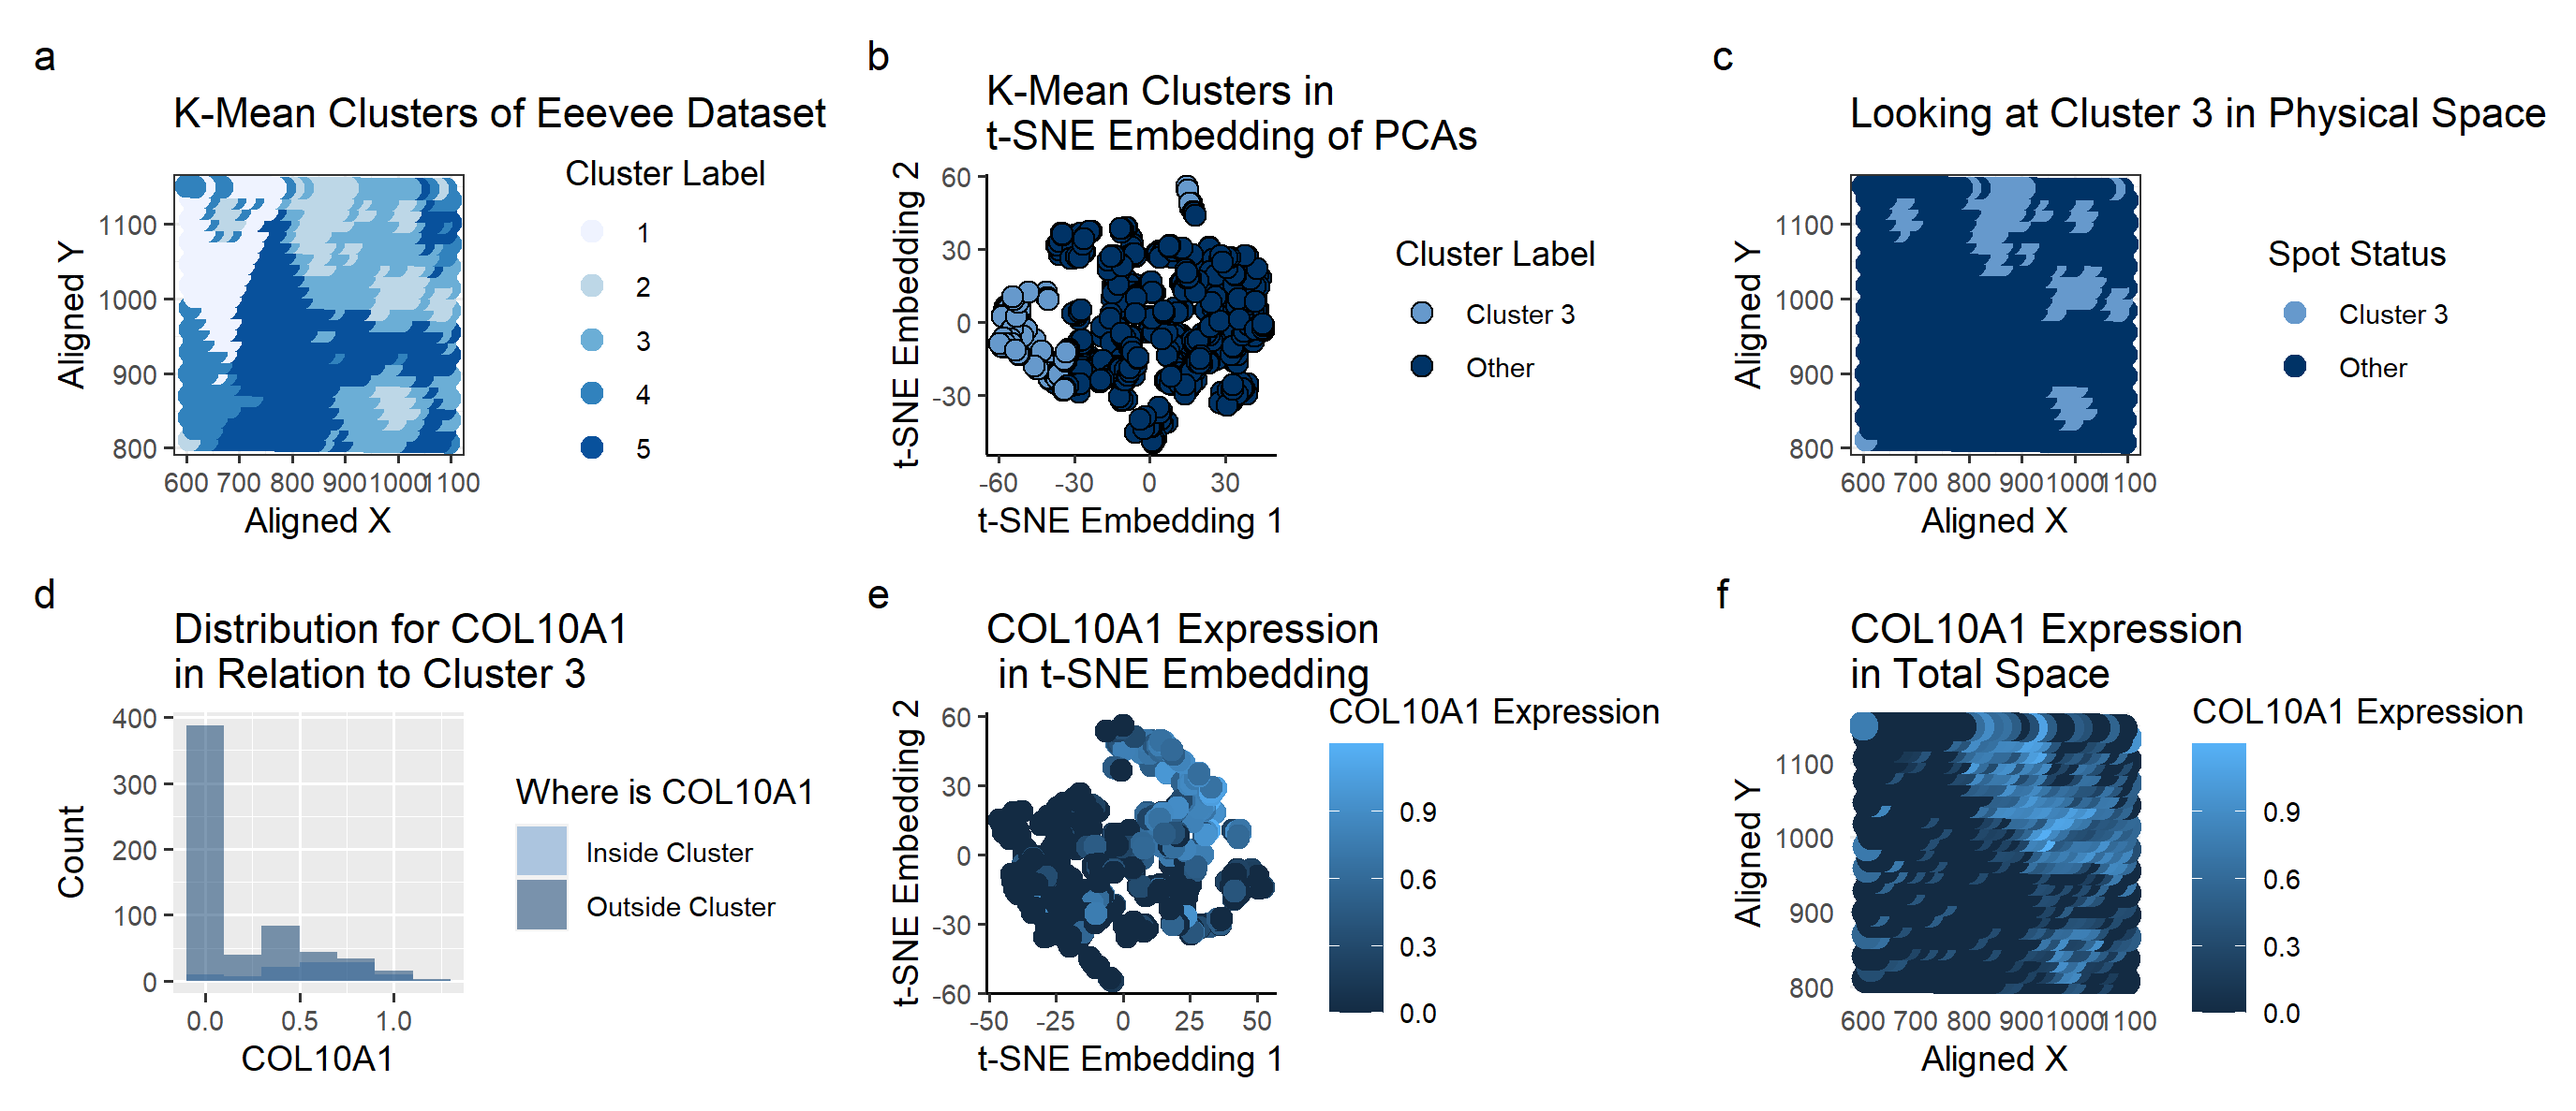
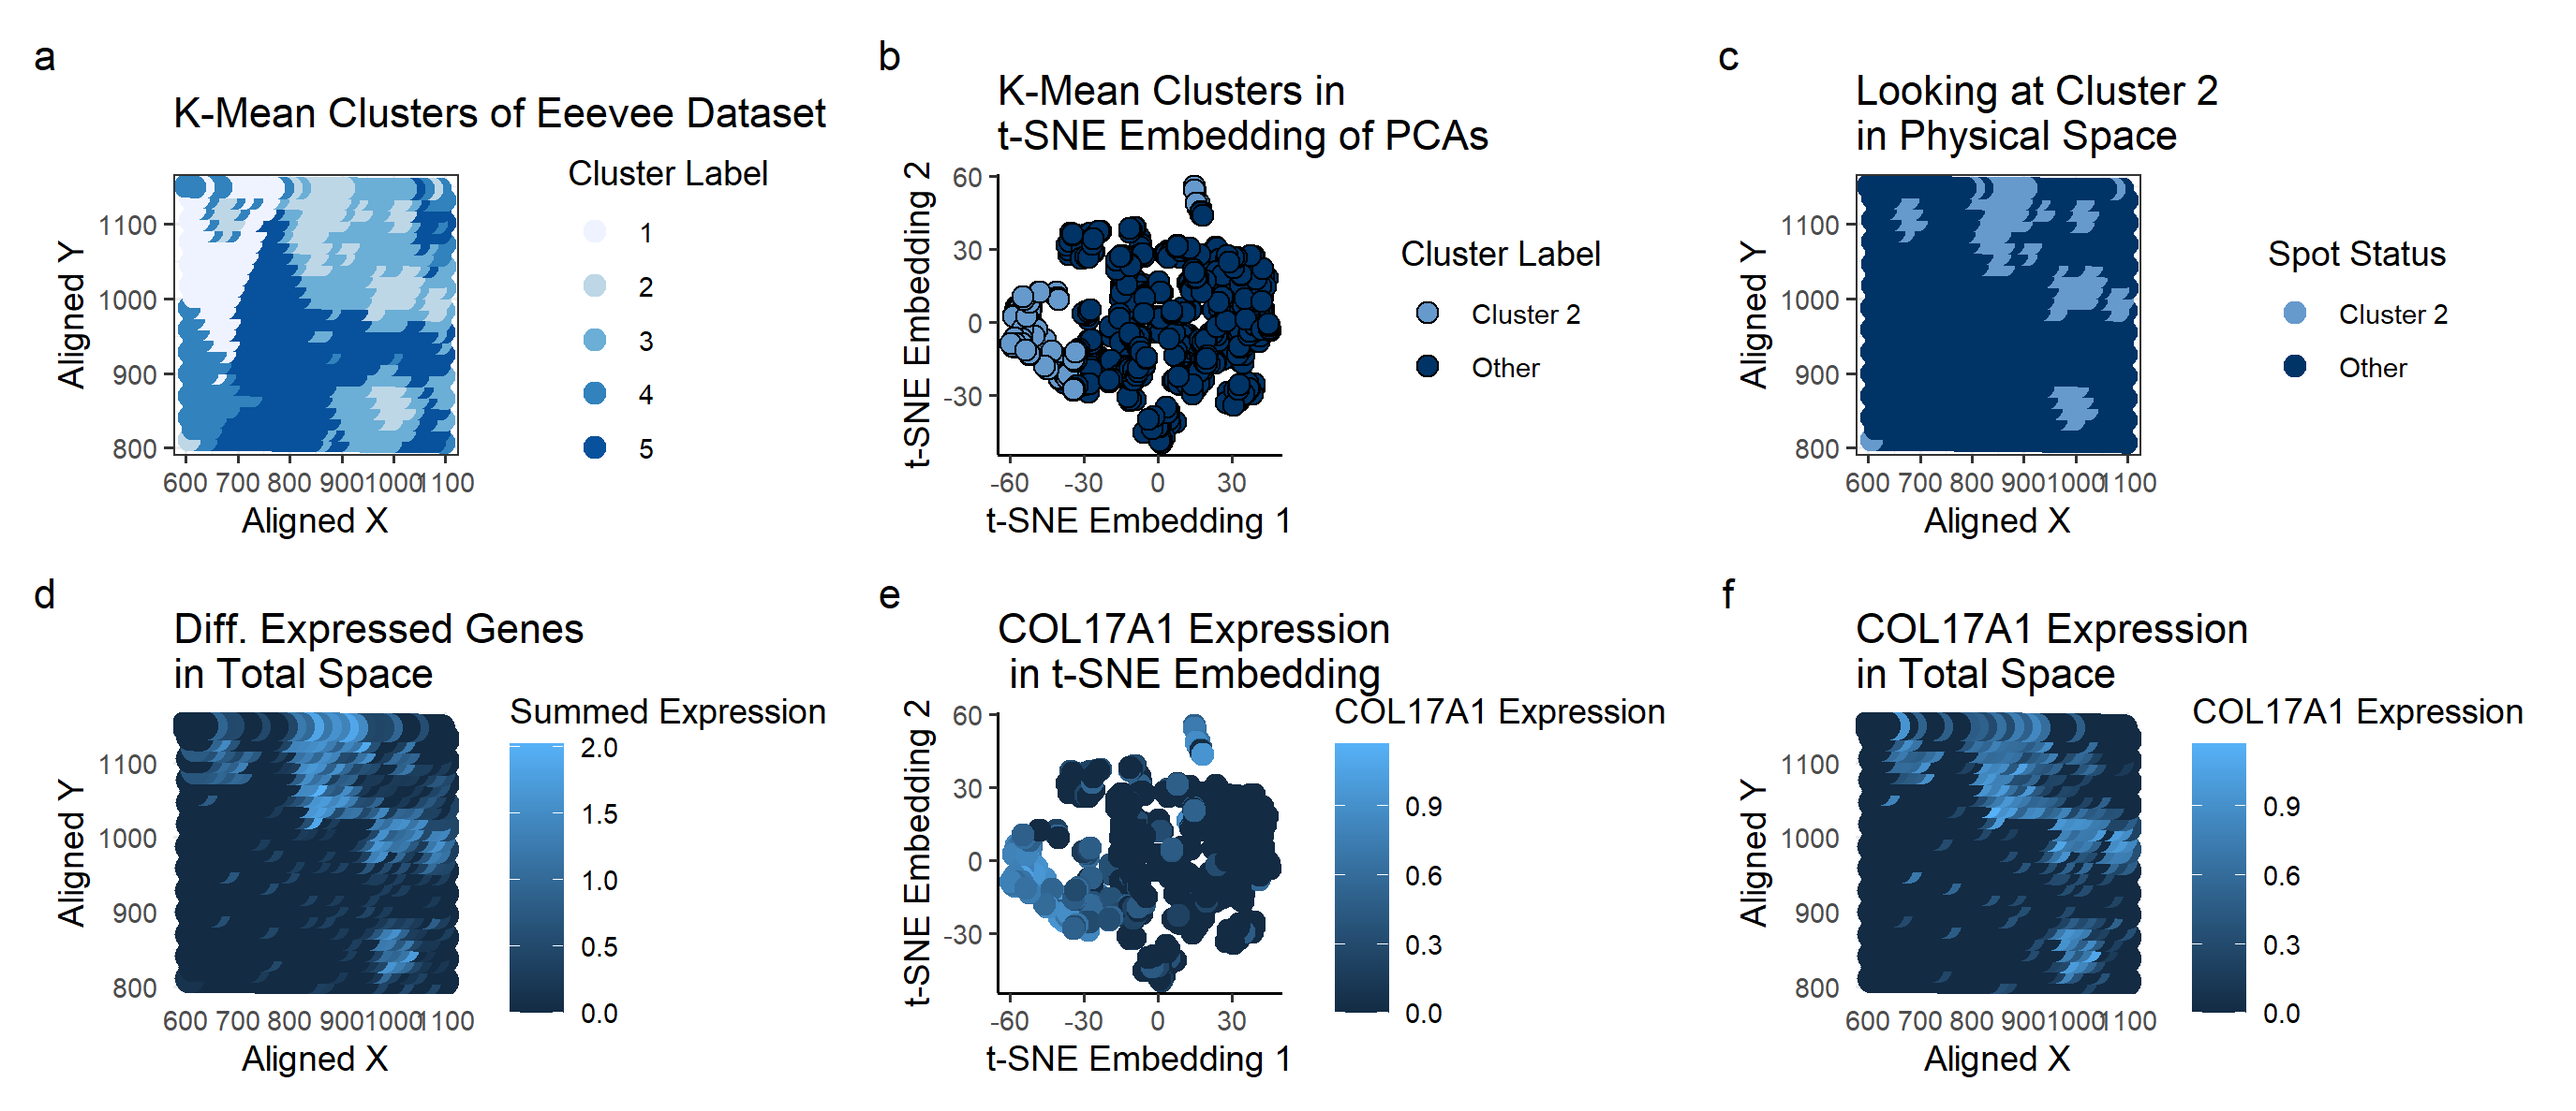
EC: Fixing past homework

diff --git a/_posts/2024-02-14-ewhang2.md b/_posts/2024-02-14-ewhang2.md
@@ -11,22 +11,22 @@ featured: false
 ## Description of Plot
 I used the K-means clustering method to identify potential groupings of cell types in the Eevee dataset, specifically for breast cancer tissue. 
 
-Plot A shows how the K-means algorithm identifies 5 clusters (k=5 derived based on total withiness). A scale of colors ranging from dark blue to light blue correspons to the cluster label of 5 to 1. With the prior knowledge that we're looking for breast cancer tissue, I picked cluster 3 for further investigation. It seemed unique around the clusters, making it an interesting point of study.
+Plot A shows how the K-means algorithm identifies 5 clusters (k=5 derived based on total withiness). A scale of colors ranging from dark blue to light blue correspons to the cluster label of 5 to 1. With the prior knowledge that we're looking for breast cancer tissue, I picked cluster 2 for further investigation because it looked like distinct clusters. My hope was that these clusters were tumors, and thus would have gene expressions corresponding to breast cancer.
 
-Plot B shows the Cluster 3 on a t-SNE embedding, which was not particularly enlightening. It didn't seem to have a visually distinctive cluster even in the nonlinear reduced space. 
+Plot B shows the Cluster 2 on a t-SNE embedding. Cluster 2 seems to be somewhat distinct from the rest of the samples, suggesting that this particular cluster of cells may have a unique characteristics. 
 
-Plot C shows basically the same information as plot A, just focusing on the cluster 3 area.
+Plot C highlights the spatial location of Cluster 2 samples, specifically how they are physically clustered together. This makes it seem more likely that cluster 2 corresponds to cancer tumors.
 
-To look at the differentially expressed genes, we perform a Mann-Whitney test, as we can't check every single gene to see if it has a Gaussian distribution inside and outside of the cluster. Based on the calculated p-values, we arrive at the conclusion that the gene CD74 is the most differentially-expressed gene in the cluster. Plot D shows the histogram of CD74 as a sanity check for our p-value result.
+To look at the differentially expressed genes, we perform a Wilcox test, as we can't check every single gene to see if it has a Gaussian distribution inside and outside of the cluster. The genes with the lowest p-value were COL17A1 (5.19e-73) and ACTG2 (4.71e-72). Plot D looks at the summed expressions of these two genes on the physical space. Both of these genes are localized on the tissue samples and are not expressed much outside of their tumor-esque area.
 
+For the rest of the analysis, I looked specifically at COL17A1.
 
-Plot E shows the CD74 Expression on a t-SNE embedding, with the color corresponding to the expression. It seems to show a general level of moderate expression everywhere. 
+Plot E shows the COL17A1 Expression on a t-SNE embedding, with the color corresponding to the expression. It shows a rather specific expression corresponding to the cluster 2 location, suggesting that it is unique to cluster 2. 
 
-Plot F has the same color schematic as before, but mapped on the physical space. Comparing with Plot C, we can see that areas of high CD74 expression (shown in light blue on Plot F) seems to correspond with the cluster 3 location on Plot C.
+Plot F has the same color schematic as before, but mapped on the physical space. Again, comparing with Plot C, we can see that areas of high COL17A1 expression (shown in light blue on Plot F) seems to correspond with the cluster 2 locations on Plot C.
 
-The plots overall allow us to conclude that CD74 is connected to breast cancer cells. This was supported by "CD74 and intratumoral immune response in breast cancer" (https://www.ncbi.nlm.nih.gov/pmc/articles/PMC5355043/) which described CD74 to be "expressed by breast tumor cells".
+With all of these plots, I have enough to suspect that COL17A1 is something that is expressed in strange clumps of cells (and we have prior information that these are breast cancer tissues). A quick search on the internet connects COL17A1 with breast cancer, with a high expression being indicative of a good prognosis. (https://www.proteinatlas.org/ENSG00000065618-COL17A1/pathology/breast+cancer).
 
-To be honest, all my plots were showing COL10A1 until it was suddenly showing CDC74 and I don't know what happened to my code to make that sudden switch...
 
 ````R
 # homework 4
@@ -42,6 +42,7 @@ To be honest, all my plots were showing COL10A1 until it was suddenly showing CD
 
 set.seed(1)
 data <- read.csv('C:\\Users\\emw\\OneDrive - Johns Hopkins\\spring 2024\\genomic-data-visualization-2024\\data\\eevee.csv.gz', row.names=1)
+dim(data)
 library(ggplot2)
 pos <- data[,2:3]
 gexp <- data[, 4:ncol(data)]
@@ -78,8 +79,8 @@ p_clusters
 
 
 
-## Looking at Cluster 3 based on p_cluster plot
-cluster_of_interest = 3;
+## Looking at Cluster 2 based on p_cluster plot
+cluster_of_interest = 2;
 df_cluster = df[df$com==cluster_of_interest,]
 
 # Comparing All Clusters to Cluster of Interest
@@ -98,17 +99,17 @@ emb1_whole <- Rtsne(pcs_whole$x[,1:30], dims = 2, perplexity = 5) ## what happen
 df_whole <- data.frame(emb1_whole=emb1_whole$Y)
 ## NOTE TO SELF THIS CODE IS KINDA WEIRD
 doIcare <- as.factor(df$com != cluster_of_interest)#*1.5+2
-doIcare_cluster <- factor(doIcare, labels = c('Cluster 3', 'Other') )
+doIcare_cluster <- factor(doIcare, labels = c('Cluster 2', 'Other') )
 
 p_tsne_whole <- ggplot(df_whole) + 
   geom_point(aes(x = emb1_whole.1, y = emb1_whole.2, fill=doIcare_cluster), shape=21,size=3) + 
   theme_classic() +
   labs(
-    title = "K-Mean Clusters in t-SNE Embedding of PCAs",
+    title = "K-Mean Clusters in \nt-SNE Embedding of PCAs",
      x = "t-SNE Embedding 1", 
     y = "t-SNE Embedding 2", fill="Cluster Label"
   ) +
-  scale_fill_manual(values = c("Cluster 3" = "#6699CC",
+  scale_fill_manual(values = c("Cluster 2" = "#6699CC",
                                "Other"="#003366"))
 p_tsne_whole
 
@@ -120,11 +121,11 @@ p_physicalspace <- ggplot(df_physicalspace) +
   geom_point(aes(x = aligned_x, y = aligned_y, col=cluster_interest), size=3) + 
   theme_bw() + 
   labs(
-    title = "Looking at Cluster 3 in Physical Space",
+    title = "Looking at Cluster 2 \nin Physical Space",
     x = "Aligned X", 
     y = "Aligned Y", color="Spot Status"
   ) +
-  scale_color_manual(values = c("Cluster 3" = "#6699CC",
+  scale_color_manual(values = c("Cluster 2" = "#6699CC",
                                 "Other"="#003366")) 
 p_physicalspace
 # 3. A panel visualizing differentially expressed genes for your cluster of interest 
@@ -148,6 +149,8 @@ for (g in colnames(gexpnorm)) {
 df_pvalue <- data.frame(gene_name = colnames(gexpnorm), pval = as.numeric(all_pvals))
 head(df_pvalue)
 df_pvalue_sorted <- df_pvalue[order(df_pvalue$pval), ]
+rownames(df_pvalue_sorted) <- NULL #allows for proper sorting of bar plot later
+
 head(df_pvalue_sorted)
 
 df_pvalue_sorted$gene_name <- factor(df_pvalue_sorted$gene_name,                                    # Factor levels in decreasing order
@@ -155,21 +158,20 @@ df_pvalue_sorted$gene_name <- factor(df_pvalue_sorted$gene_name,                
 
 
 # quickly look at the distributions as a sanity check
-gene_of_interest = 'CD74'
+gene_of_interest = 'COL17A1'
 doIcare <- factor(doIcare, labels = c('Inside Cluster', 'Outside Cluster') )
 df_hist <- data.frame(df, doIcare)
 
-p_hist <- ggplot(df_hist, aes(x = df_hist[,'CD74'], fill = df_hist$doIcare)) +
+p_hist <- ggplot(df_hist, aes(x = df_hist[,'COL17A1'], fill = df_hist$doIcare)) +
   geom_histogram(binwidth = 0.2, alpha = 0.5, position = "identity") +
   labs(
-    title = "Distribution for CD74 in Relation to Cluster 3",
-    x = "CD74", 
-    y = "Count", fill="Where is CD74"
+    title = "Distribution for COL17A1 \nin Relation to Cluster 2",
+    x = "COL17A1", 
+    y = "Count", fill="Where is COL17A1"
   ) +
   scale_fill_manual(values = c("Inside Cluster" ="#6699CC",
                                 "Outside Cluster"="#003366")) 
 p_hist
-rownames(df_pvalue_sorted) <- NULL #allows for proper sorting of bar plot later
 
 p_bestpvalues<-ggplot(data=df_pvalue_sorted[1:30, ], aes(x=gene_name, y=pval)) +
   geom_bar(stat="identity") +scale_y_log10()+ scale_x_discrete(guide = guide_axis(angle = 90)) +
@@ -180,36 +182,48 @@ labs( title = "Which Genes are Differentially Expressed",
 p_bestpvalues
 
 # 4. A panel visualizing one of these genes in reduced dimensional space (PCA, tSNE etc) 
-pcs <- prcomp(gexpnorm)
-emb <- Rtsne(pcs$x[,1:30], dims = 2, perplexity = 5) ## what happens if we run tSNE on PCs?
+#pcs <- prcomp(gexpnorm)
+#emb <- Rtsne(pcs$x[,1:30], dims = 2, perplexity = 5) ## what happens if we run tSNE on PCs?
 ## plot
-df_CD74_reduced <- data.frame(pcs$x[,1:2], emb=emb$Y, gene = gexpnorm[, 'CD74'], doIcare)
-p_CD74_reduced <- ggplot(df_CD74_reduced) + geom_point(aes(x = emb.1, y = emb.2, col=gene), size=3) + 
+df_COL17A1_reduced <- data.frame(pcs_whole$x[,1:2], emb=emb1_whole$Y, gene = gexpnorm[, 'COL17A1'], doIcare)
+p_COL17A1_reduced <- ggplot(df_COL17A1_reduced) + geom_point(aes(x = emb.1, y = emb.2, col=gene), size=3) + 
   theme_classic() +
   labs(
-    title = "COL10A1 Expression in t-SNE Embedding",
+    title = "COL17A1 Expression \n in t-SNE Embedding",
     x = "t-SNE Embedding 1", 
-    y = "t-SNE Embedding 2", color="COL10A1 Expression"
+    y = "t-SNE Embedding 2", color="COL17A1 Expression"
   ) 
-p_CD74_reduced
+p_COL17A1_reduced
 
 # 5. A panel visualizing one of these genes in space 
 ## Look at gene expression of genes from above
 ## look at the sum of the genes of interest within cluster
 # size_param <- as.numeric(df$com == cluster_of_interest)*1.5+2
-#COL10A1
-df_physicalspace_CD74 <- data.frame(df, CD74_Expression = gexpnorm[, 'CD74'])
-p_physicalspace_CD74 <- ggplot(df_physicalspace_CD74) + 
-  geom_point(aes(x = aligned_x, y = aligned_y, col=CD74_Expression), size=4) + 
+#COL17A1
+df_physicalspace_COL17A1 <- data.frame(df, COL17A1_Expression = gexpnorm[, 'COL17A1'])
+p_physicalspace_COL17A1 <- ggplot(df_physicalspace_COL17A1) + 
+  geom_point(aes(x = aligned_x, y = aligned_y, col=COL17A1_Expression), size=4) + 
   theme_minimal() +
   labs(
-    title = "CD74 Expression in Total Space",
+    title = "COL17A1 Expression \nin Total Space",
     x = "Aligned X", 
-    y = "Aligned Y", color="CD74 Expression"
+    y = "Aligned Y", color="COL17A1 Expression"
   )
-p_physicalspace_CD74
+p_physicalspace_COL17A1
 
+
+
+df_physicalspace_diffgene <- data.frame(df, gexp_diff_gexp = gexpnorm[, 'COL17A1']+gexpnorm[, 'ACTG2'])
+p_physicalspace_diffgene <- ggplot(df_physicalspace_diffgene) + 
+  geom_point(aes(x = aligned_x, y = aligned_y, col=gexp_diff_gexp), size=4) + 
+  theme_minimal() +
+  labs(
+    title = "Diff. Expressed Genes \nin Total Space",
+    x = "Aligned X", 
+    y = "Aligned Y", color="Summed Expression"
+  )
 library(patchwork)
-p_clusters + p_tsne_whole + p_physicalspace + p_hist + p_CD74_reduced+plot_annotation(tag_levels = 'a')+p_physicalspace_CD74+ plot_layout(ncol = 3) 
+p_clusters + p_tsne_whole + p_physicalspace + p_physicalspace_diffgene + p_COL17A1_reduced+plot_annotation(tag_levels = 'a')+p_physicalspace_COL17A1+ plot_layout(ncol = 3) 
+
 
 ````
